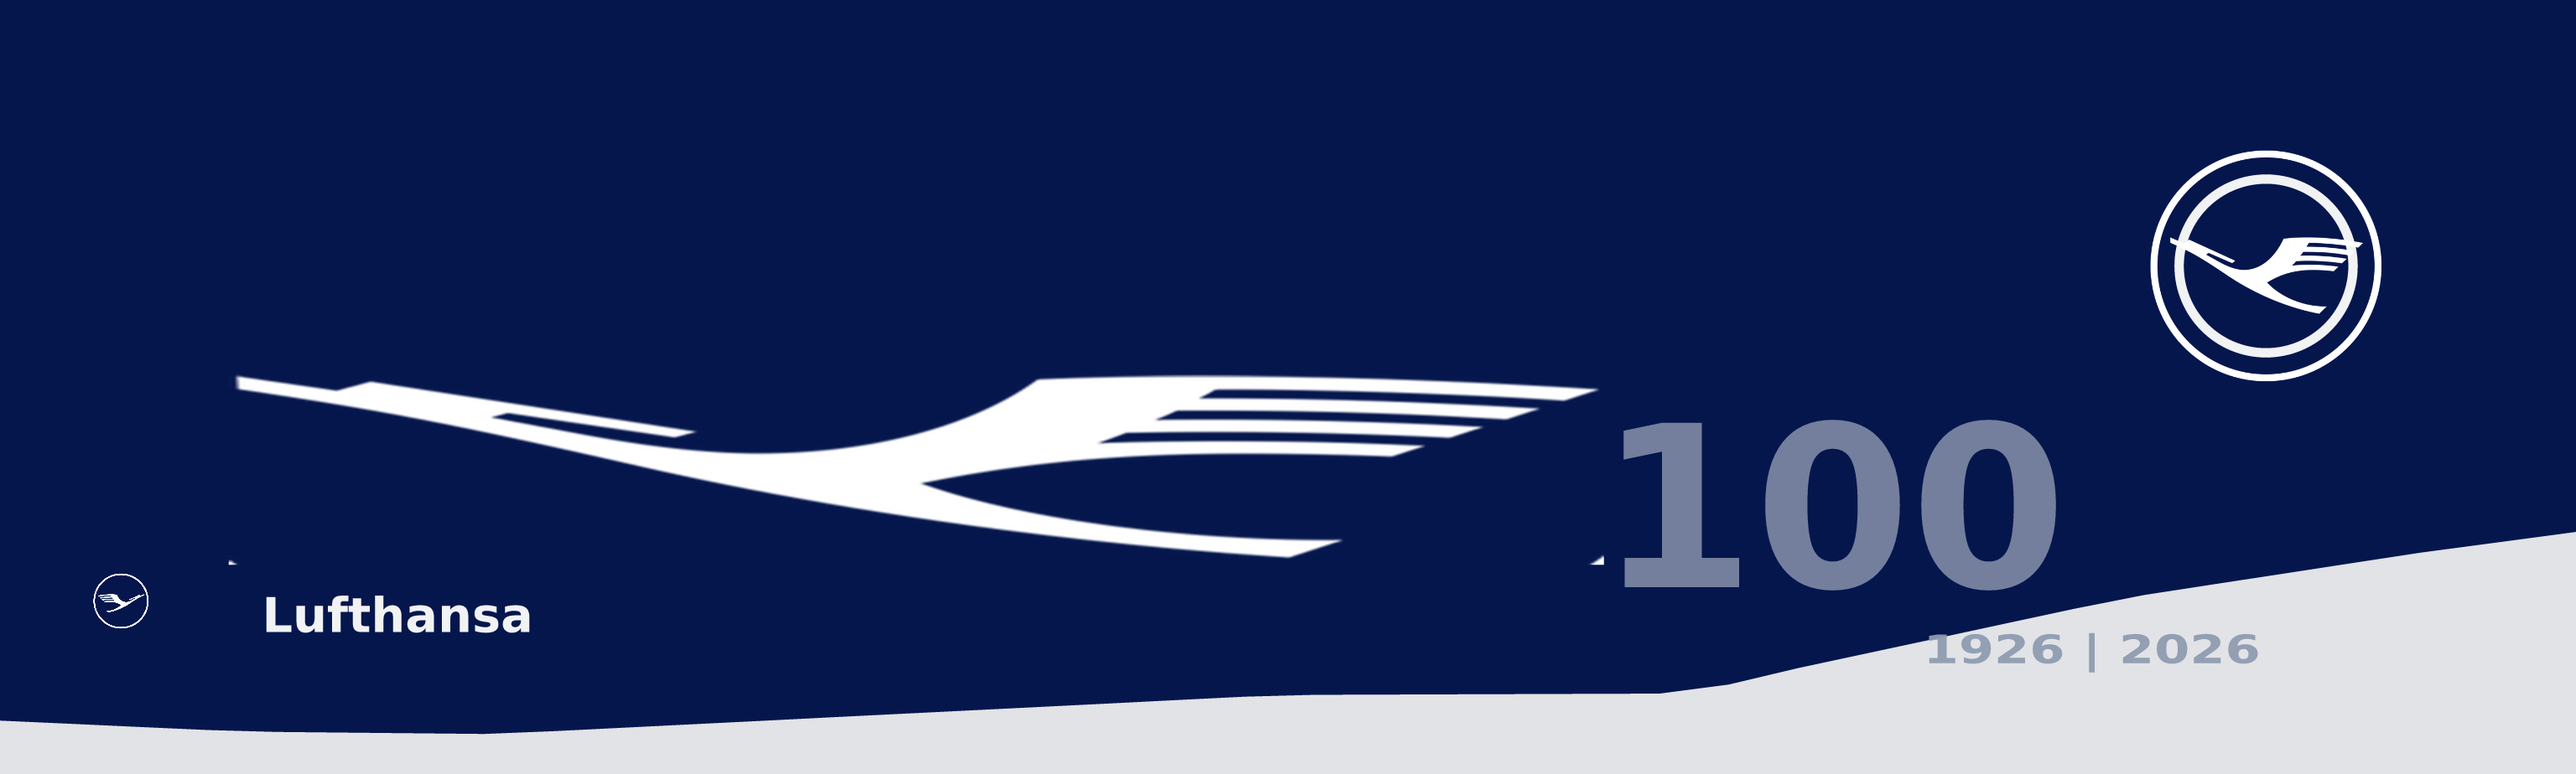
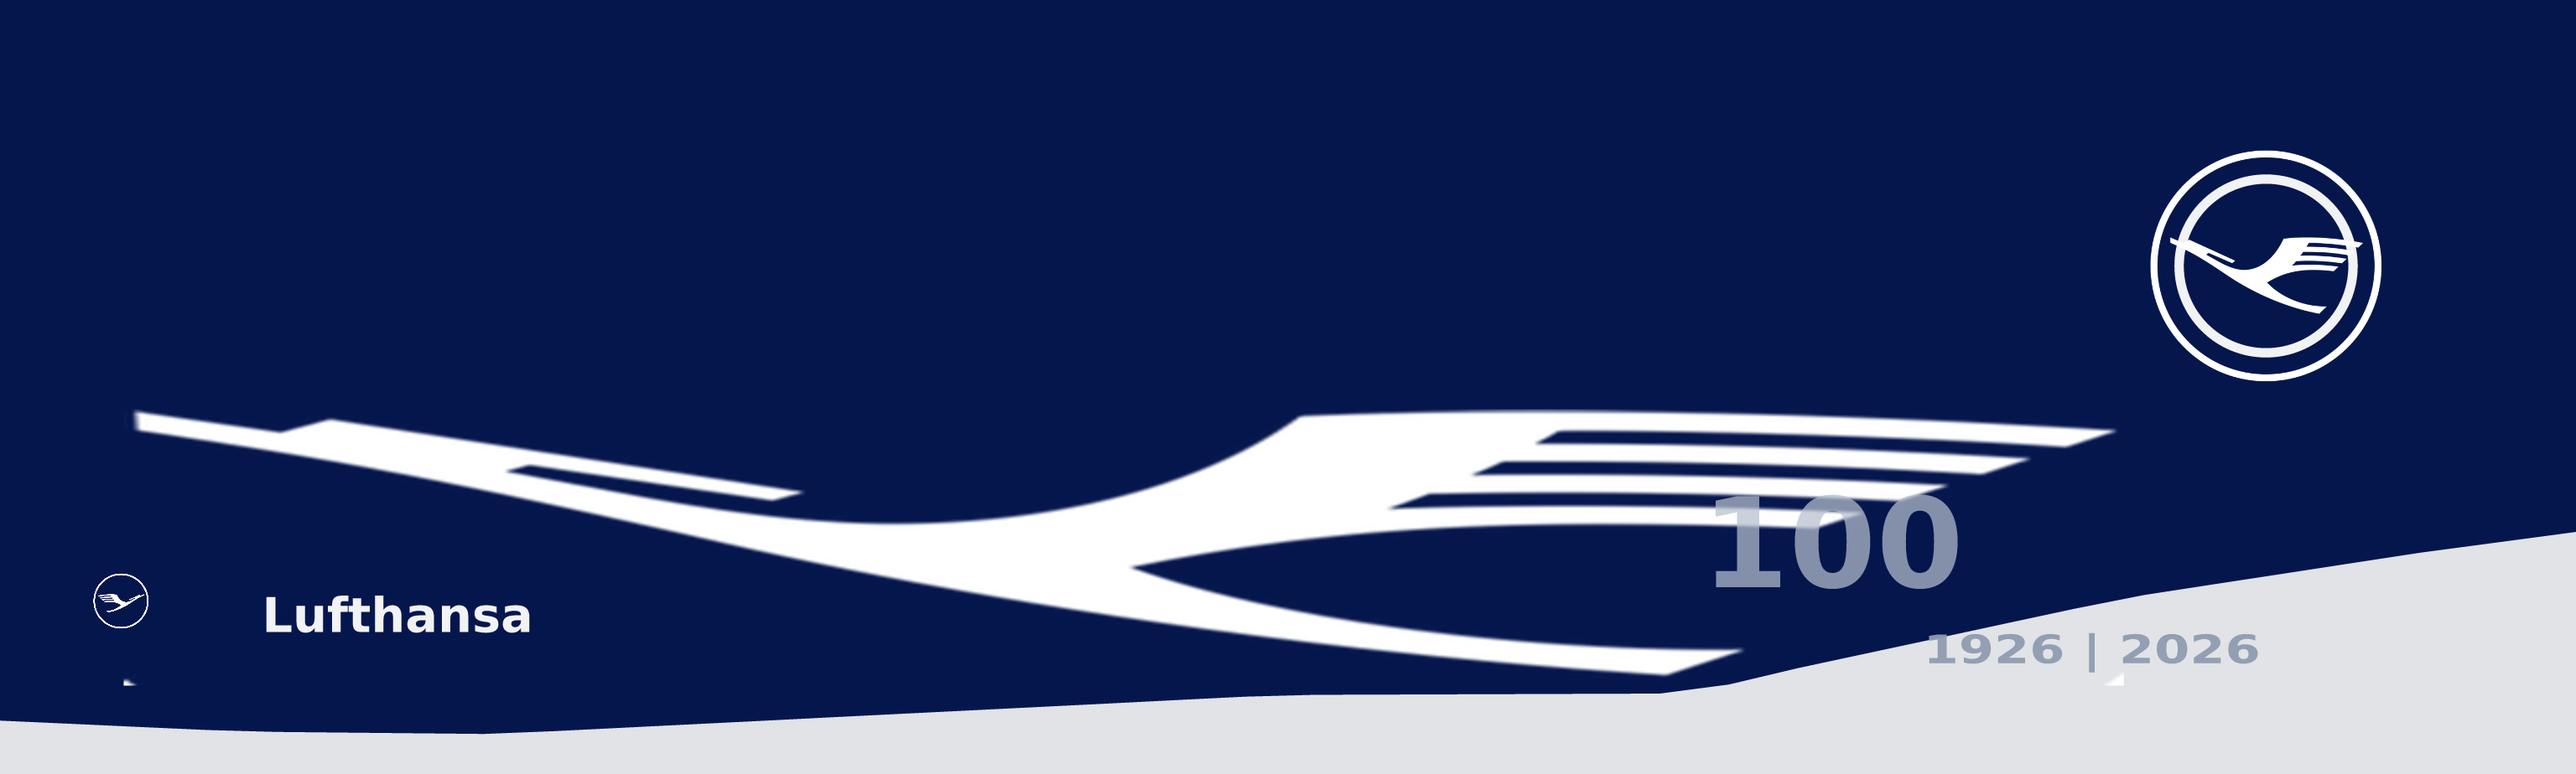
fix: refine Lufthansa centenary crane scale and placement
Increase the crane mark from 40x5.5 m to 58x8 m, move it forward, and
lower it to keep more of the mark on the fuselage. Reduce the 100 mark.
Regenerate both DLH100 atlases and bump the atlas cache version.

Agent: Pi coding agent
Model: gpt-6-luna

Changed region(s): [[0.0312, 0.4848, 0.8438, 0.8788]]

diff --git a/src/a380-paint.js b/src/a380-paint.js
@@ -9,7 +9,7 @@ import {closeA380Windows} from './model-paint.js';
 export const A380_ATLAS={x0:-37.5,x1:37.0,y0:-9.8,y1:12.6};
 const ROOT='/747/assets/a380-liveries/';
 // Bump when generated atlases change: the server gives /assets/* a 24-hour browser cache.
-export const A380_ATLAS_VERSION='20261106';
+export const A380_ATLAS_VERSION='20261107';
 const FIN_BASE_Y=-1.4;
 
 const BODY_MATERIAL=/^A380X_FUSE[1235]$/;
